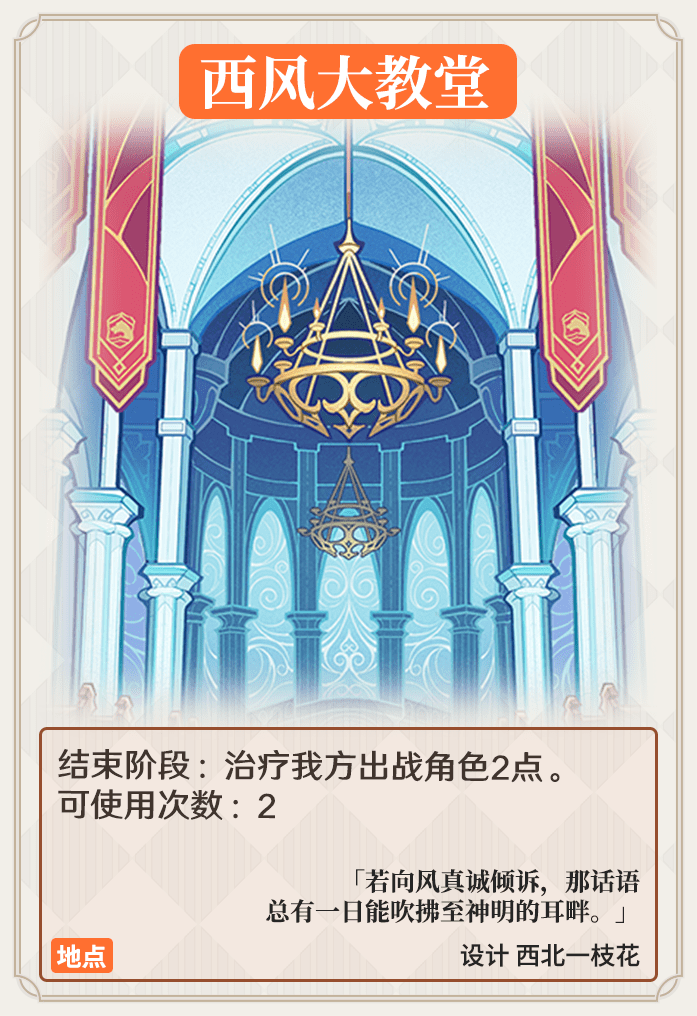
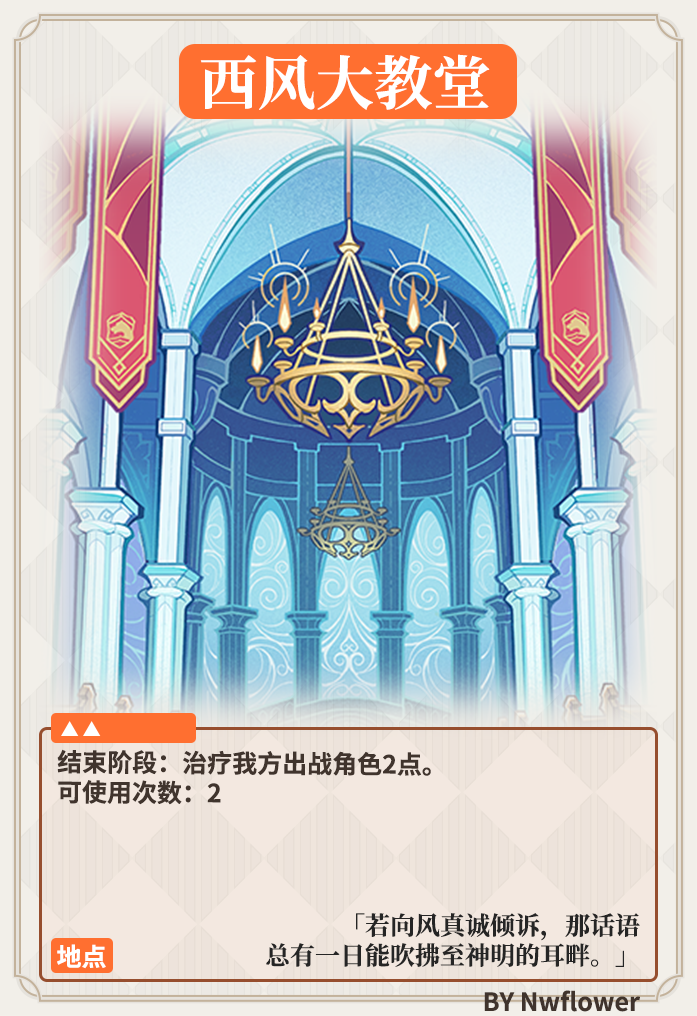
地点牌新增骰耗

Changed region(s): [[0.0603, 0.7018, 0.7834, 0.8238], [0.4821, 0.8543, 0.934, 1.0], [0.3615, 0.8848, 0.4519, 0.9764]]

diff --git a/README.md b/README.md
@@ -3,12 +3,12 @@
 这是一个由[`米游社@西北壹枝花`](https://bbs.mihoyo.com/ys/accountCenter/postList?id=289918413)制作的原神(Genshin Impact)游戏图鉴。
 ## 图鉴分类以及画饼
 ### 已完成的部分
-1. 武器图鉴（所有条目已更新至3.3，每版本更新）
-2. 角色材料（所有条目已更新至3.3，每版本更新）
-3. 圣遗物图鉴（新增V3.3的圣遗物，其余条目最后更新版本为V3.0，预计V4.0前更新一次）
-4. 七圣召唤卡牌（所有条目已更新至3.3测试版，正式版上线后再更新。CMYK格式不对外开放）
+1. 武器图鉴（已更新至3.3）
+2. 角色材料（已更新至3.3）
+3. 圣遗物图鉴（新增V3.3的圣遗物，其余条目更新至3.0）
+4. 七圣召唤卡牌（已更新至3.3，尚未实装的功能有所疏漏在所难免）
 ### 正在做的部分
-1. 周本图鉴（目前仅正机之神、雷神，开发进度11.4514%，预计2023春节前完成）
+1. 周本图鉴（目前仅正机之神、雷神，开发进度11.4514%）
 2. 食物图鉴（已设计模板）
 3. 角色图鉴（已设计模板）
 ### 可能会做的部分
